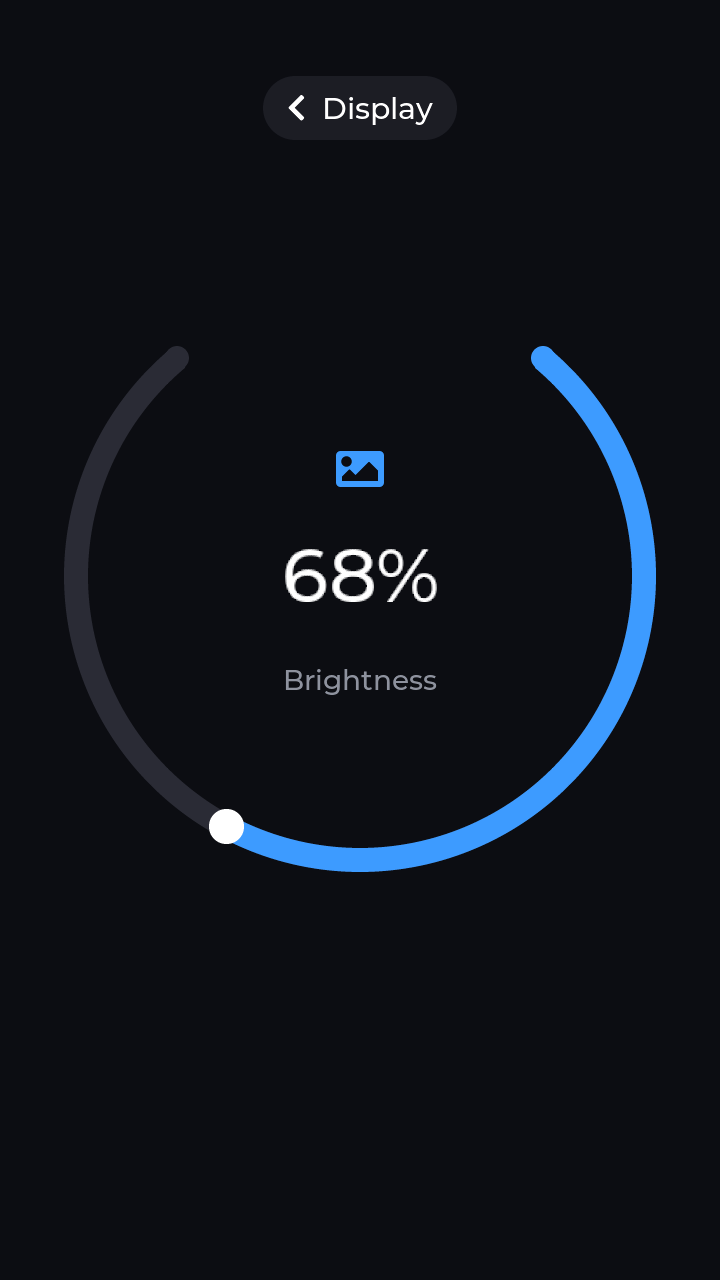
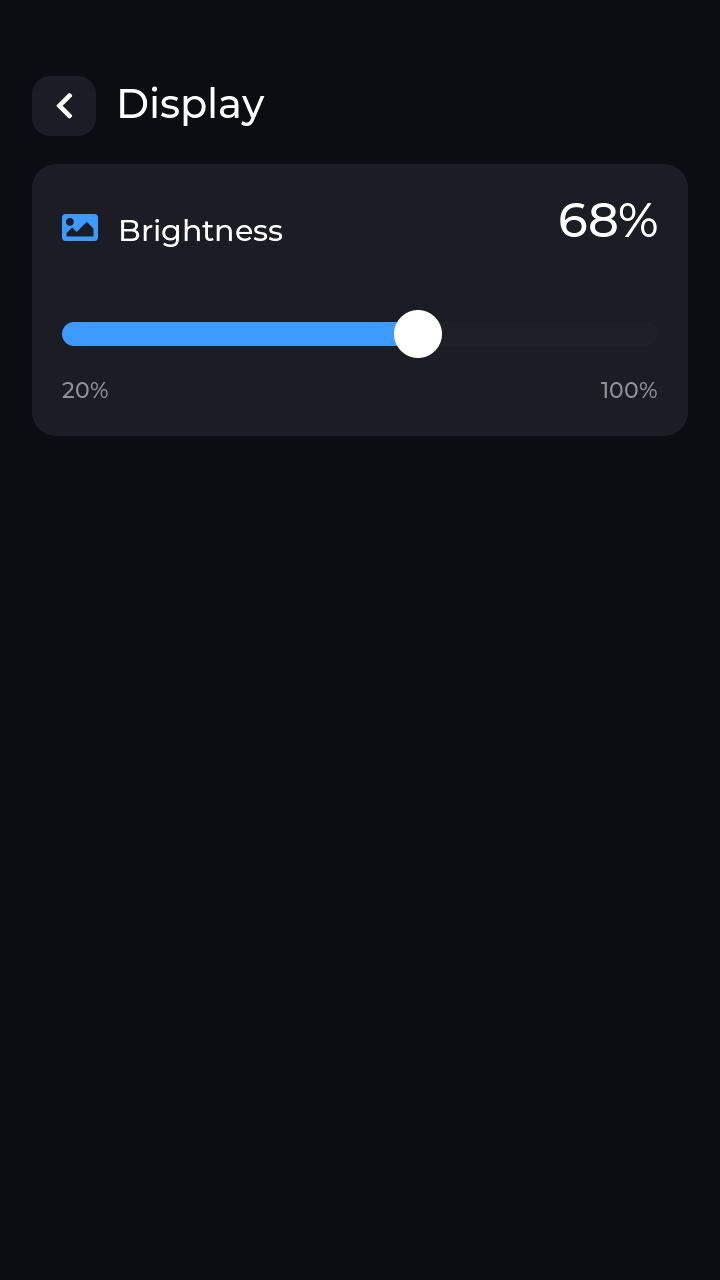
docs(factory): refresh the portrait preview and Wi-Fi steps

diff --git a/examples/factory/README.md b/examples/factory/README.md
@@ -4,7 +4,7 @@
 
 ## What It Does
 
-Run the reference Brookesia icon launcher on a rectangular portrait display. Calculator, Draw, Spectrum, Music, Video and Settings use layouts adapted from the Knob factory UI.
+Run the Brookesia icon launcher with apps laid out for the rectangular portrait screen. The factory UI uses a four-column keypad, a full-width drawing canvas, and touch controls adapted from the Knob factory UI.
 
 ## Hardware Required
 
@@ -22,7 +22,7 @@ idf.py build flash monitor
 
 ## Expected Result
 
-Swipe up from the bottom edge to return to the launcher. In Brookesia views, hold after swiping up to open recent apps; use a page title with a back arrow to return from a settings or playlist subpage.
+Swipe up from the bottom edge to return to the launcher, or hold after swiping up in Brookesia views to open recent apps. Open Settings → Wi-Fi to turn on the radio, scan for networks or join an access point while the interface remains usable.
 
 | Launcher preview | Brightness control preview |
 | --- | --- |

diff --git a/examples/factory/README_ZH.md b/examples/factory/README_ZH.md
@@ -4,7 +4,7 @@
 
 ## 功能
 
-在直角竖屏运行参考工程的 Brookesia 图标桌面。计算器、画板、频谱、音乐、视频和设置沿用旋钮出厂工程的界面布局，并按竖屏尺寸调整。
+在直角竖屏运行 Brookesia 图标桌面。应用采用四列键盘、全宽画布等矩形布局，并根据屏幕调整旋钮出厂工程的交互控件。
 
 ## 硬件需求
 
@@ -22,7 +22,7 @@ idf.py build flash monitor
 
 ## 预期现象
 
-从屏幕底边向上划可返回桌面。在 Brookesia 页面中，上划后停留可打开最近任务；设置和曲目列表的子页可点带返回箭头的标题回到上一级。
+从屏幕底边向上划可返回桌面，在 Brookesia 页面中上划后停留可打开最近任务。通过「设置 → Wi-Fi」打开、扫描或连接网络，操作期间仍可离开设置页。
 
 | 启动器预览 | 亮度调节预览 |
 | --- | --- |
